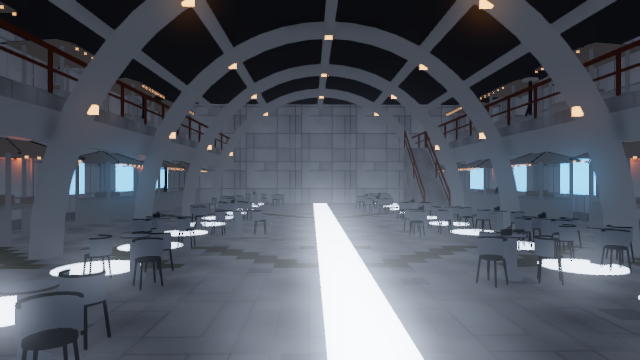
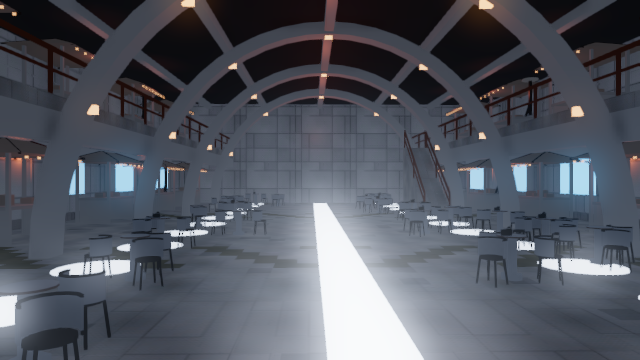
Five bespoke fittings cast, and four modules are calibrated
Every value applied here was already measured and already committed. bay_lamp,
zoc_rib_lamp, zoc_stall_light, bar_pendant_lamp and cc_light_strip are fittings
their modules ALREADY BUILD, described by fixtures already in
docs/layer4-lighting/*.json, and until the previous commit none of them could
cast because none was spelled `light_*`. Unlike the eleven room fittings, not
one range needed scaling: each was measured in the very volume its module
builds, so docking_bay's 30 m is right where a plant hall's would not be.

BESPOKE_EXPOSURE calibrates zocalo, hospitality, command_control and
docking_bay to 1.38-1.46x their reference frames' medians against the 1.40
target the corridor sits at. The corrections are small -- 0.90 to 1.34 -- and
that is the informative part: the anchor was a reasonable default and what
those four modules lacked was not exposure but sources.

docs/engine-zocalo.png, engine-cnc.png, engine-dugout.png,
engine-docking-bay.png. The Dugout now has warm pools under its five pendant
shades, which were hanging dark over the tables in the previous frame.

ON THE WORKFLOW. Six proposal agents plus six adversarial verifiers were
launched for the bespoke modules and produced nothing: this machine's
concurrency cap is 2, so fifteen minutes in, two agents were still on their
first pass and none had written its output. Stopped, and the work done serially
from the same committed JSON the agents were being asked to read. The lesson is
[…]

diff --git a/tools/export_scene.py b/tools/export_scene.py
@@ -635,6 +635,52 @@ FIXTURE_LIGHTING = {
     "light_soffit_blade": {"kind": "omni", "colour": (1.000, 0.703, 0.440),
                            "energy_rel": 0.92, "range_m": 4.0,
                            "shadow": False},
+
+    # --- the bespoke modules ----------------------------------------------
+    # These five are the fittings the bespoke generators ALREADY BUILD and that
+    # the committed measurements already describe. Nothing here is new
+    # geometry, no colour is invented, and -- unlike the room fittings above --
+    # NO RANGE NEEDED SCALING: every one was measured in the very volume its
+    # module builds, so the number transfers as read.
+    #
+    # bay_flood, measured in reference/03-sector-blue/dock.webp: spot, 7391 K,
+    # range 30 m, spacing 11 m, SHADOW, cone half-angle 28-35 deg, emitting
+    # face at BAY_H_M - GIRDER_D_M - LAMP_DROP_M = 13.0 m. The 30 m range is
+    # right here and would be wrong anywhere else: docking_bay.py's BAY_H_M
+    # really is 18 m. 35 deg is the top of the measured range and is taken
+    # rather than opened further.
+    "bay_lamp": {"kind": "spot", "colour": (0.850, 0.830, 1.000),
+                 "energy_rel": 1.00, "range_m": 30.0, "shadow": True,
+                 "angle_deg": 35.0},
+    # zoc_rib_lamp, measured in reference/04-sector-red/zocalo.webp: omni,
+    # 2990 K, energy_rel 0.30, range 6 m, no shadow. Five per rib at the
+    # measured (x, y) intrados positions, ribs at 5.4 m pitch. This is the
+    # concourse's warm register and the only thing in the Zocalo that is not
+    # cool.
+    "zoc_rib_lamp": {"kind": "omni", "colour": (1.000, 0.398, 0.233),
+                     "energy_rel": 0.30, "range_m": 6.0, "shadow": False},
+    # zoc_stall_light, measured in the same frame by blob analysis -- 64
+    # discrete bulbs at a median spacing of 2.6 bulb diameters: omni, 3800 K,
+    # energy_rel 0.19, range 2.5 m. FIXTURE_MERGE_M does the heavy lifting: the
+    # geometry keeps every bulb and the rig gets one lamp per 0.9 m.
+    "zoc_stall_light": {"kind": "omni", "colour": (1.000, 0.492, 0.420),
+                        "energy_rel": 0.19, "range_m": 2.5, "shadow": False},
+    # bar_pendant_lamp, measured in reference/04-sector-red/Doug's Dugout.webp:
+    # spot, 3900 K, range 3.5 m, spacing 2.2 m, SHADOW, one per table. Cone
+    # from the shade itself -- hung below standing eye height (~1.9 m) over a
+    # 1.20 m table at 0.74 m, so atan(0.60/1.16) = 27.4 deg. This is the
+    # module's own fitting, which hospitality.py already places and asserts.
+    "bar_pendant_lamp": {"kind": "spot", "colour": (1.000, 0.554, 0.393),
+                         "energy_rel": 1.00, "range_m": 3.5, "shadow": True,
+                         "angle_deg": 27.4},
+    # cc_wall_course, measured raw in reference/03-sector-blue/comand and
+    # contorl.webp: omni, 22000 K, energy_rel 0.44, range 3.5 m, no shadow.
+    # command_control.py's group is `cc_light_strip` and the measurement is of
+    # that object. The placement note is the reason a 3.5 m range on a 7 m
+    # half-width is correct rather than mean: the courses throw OUTWARD and the
+    # centre of the room stays dark.
+    "cc_light_strip": {"kind": "omni", "colour": (0.243, 0.546, 1.000),
+                       "energy_rel": 0.44, "range_m": 3.5, "shadow": False},
 }
 # EVERYTHING NOT IN THAT TABLE IS EMISSIVE ONLY, and for rooms.py that is:
 # light_service_tube, light_bar_backlight, light_indicator_red and
@@ -751,7 +797,22 @@ ROOM_EXPOSURE = {
 # The frame came back 100% below the measurable floor: not one pixel of the
 # station's bridge above 0.01 linear. An exposure measured on one generator's
 # geometry says nothing about another's.
-BESPOKE_EXPOSURE = {}
+#
+# Four are measured. Same procedure as ROOM_EXPOSURE and the same 1.40 target:
+# render the module's room, measure it and its reference frame with
+# tools/measure_frame.py, scale. At the anchor they came in at 1.53, 1.04, 1.51
+# and 1.55 of their references' medians, so the corrections are small -- which
+# is the interesting part. It says the anchor was a reasonable default and that
+# what those four modules were missing was not exposure but SOURCES: none of
+# their lamps cast anything until FIXTURE_LIGHTING learned their names.
+#
+# The rest stay absent, which means the anchor, which means not yet measured.
+BESPOKE_EXPOSURE = {
+    "zocalo": 0.92,          # vs reference/04-sector-red/more zocalo.png
+    "hospitality": 1.34,     # vs reference/04-sector-red/Doug's Dugout.webp
+    "command_control": 0.93,  # vs 03-sector-blue/comand and contorl.webp
+    "docking_bay": 0.90,     # vs reference/03-sector-blue/dock.webp
+}
 
 
 def room_exposure(room):

diff --git a/STATE.md b/STATE.md
@@ -2780,13 +2780,71 @@ exposure, so it scales both.
 Frames: `docs/engine-medlab.png`, `docs/engine-market.png`. Suites: rooms 579, materials 1364,
 layer-3 gate 34, directory 744, export_scene 80, measure_frame 9.
 
+## Session 3o (cont.) — the bespoke modules can be seen, and four of them are lit
+
+**The interior shot could assemble exactly two things**: the corridor kit and a rooms.py bay.
+All fifty locations built by a bespoke module raised SystemExit — so the Zocalo, the docking bay,
+command and control, the council chamber, seven classes of quarters, the alien sector and the
+plant rooms had materials, had lamps in several cases, and **had never been rendered from the
+inside**. `BESPOKE_GEOMETRY` records the entry point for each of the nine interior-scene modules;
+`to_spans` normalises the four shapes their third return value comes in.
+
+**Three defects between that and a frame worth looking at, all found by looking:**
+
+1. **The archetype exposures leaked onto bespoke rooms.** `rooms.archetype()` reads a place's
+   `functions`, so it classifies a bespoke place happily — C&C came out "office" and took office's
+   0.14, calibrated against a rooms.py bay with rooms.py fittings. The frame came back **100% below
+   the measurable floor**. A bespoke module now falls back to the corridor anchor.
+2. **`open_standpoint` measured distance to VERTICES.** A 30 m end cap is two triangles with four
+   corners, so its middle scored as the most open spot in the room and the Zocalo camera stood
+   outside the concourse with a bulkhead filling the frame. It now rasterises triangle footprints
+   (`rooms.walkable`'s method) and scores by **the clear run ahead** — `zoc_bulkhead` caps both ends
+   and the stall awnings overhang past them, so "nearest free cell" was worth nothing.
+3. **The light rig gated on SPELLING.** `fixture_lights` skipped any group not named `light_*`,
+   which locked out every bespoke module: `zoc_rib_lamp`, `bay_lamp`, `bar_pendant_lamp` are all
+   recorded in the measurements as real sources, two shadow-casting, and none could ever cast.
+   Membership of `FIXTURE_LIGHTING` is the gate now. Renaming nine modules' groups would have
+   broken their material binds, scene rules and layer-3 count to satisfy a convention.
+
+**Five bespoke fittings now cast, and no value in them is new.** `bay_lamp`, `zoc_rib_lamp`,
+`zoc_stall_light`, `bar_pendant_lamp`, `cc_light_strip` — every one is a fitting its module already
+builds and the committed JSON already measures, and unlike the room fittings **not one range needed
+scaling**: each was measured in the very volume its module builds. `BESPOKE_EXPOSURE` calibrates
+four modules to 1.38–1.46× their reference frames against a 1.40 target. The corrections were small
+(0.90–1.34), which is the informative part: what those modules lacked was not exposure but sources.
+
+Frames: `docs/engine-zocalo.png` — the station's social centre, elliptical rib arches, gallery and
+stairs both sides, stalls under awnings, warm rib lamps against the cool deck strip.
+`docs/engine-cnc.png`, `docs/engine-dugout.png`, `docs/engine-docking-bay.png`.
+
+**A workflow that cost time and produced nothing.** Six proposal agents plus six adversarial
+verifiers were launched for the bespoke modules. The machine's concurrency cap is 2, so after
+fifteen minutes two agents were still on their first pass and none had written its output. It was
+stopped and the work done serially from the same committed JSON the agents were being asked to
+read. **The lesson is about this machine, not about the pattern**: at 2 concurrent, a 12-agent
+fan-out is a 6-deep queue, and the useful width here is 2–4.
+
 ## NEXT SESSION — layer 4
 
-1. **The bespoke sixteen.** Layer 4 stands at 68/118; the other 50 are the module-built places, and
+1. **The bespoke sixteen, continued.** Layer 4 stands at 68/118; the other 50 are the module-built places, and
    several already build lamps (`zoc_rib_lamp`, `bay_lamp`, `cc_light_strip`). What they do not have
    is a calibrated exposure and a frame measured against its reference, which is what layer 4 *is*.
    The measured fixtures for them are already committed in `docs/layer4-lighting/public_social.json`
-   and `command_working.json` — 42 of them, unapplied.
+   and `command_working.json`. Five are now applied; the rest need GEOMETRY before they can be
+   lit, which is layer-2 work reached from layer 4:
+   * **`plant` (5 places) has no light fitting of any kind** and renders 85% black — two tanks in
+     the dark. It is the `rooms.py` industrial problem in a module that was not covered by
+     `rooms.LIGHTS`.
+   * **`quarters` (7 places)** has only `qtr_babcom`, a comms panel. No lamp.
+   * **`council_chamber`**: `cc_house_wash` is measured as the chamber's whole lighting scheme and
+     its "fitting is never in frame" — there is no geometry to hang a light on. Needs either an
+     invisible tagged proxy or a different mechanism; decide and argue it.
+   * **`docking_bay`**: `bay_mouth` — "NOT PRESENT IN docking_bay.py, which builds the mouth as an
+     opening and lights nothing."
+   * **`command_control`**: two more wall courses, `cc_console_skirt`, `cc_pit_indicator`.
+   * **`zocalo`**: the measurement says 60–100 bulbs a stall against the 6–9 zocalo.py places, and
+     that the overhead downlight's cone must be ≥50°— but zocalo.py has no ceiling fitting geometry
+     at all; `zoc_downlight` is the lit patch ON THE DECK.
 2. **Our lamps clip where the show's do not.** Measured across the eleven calibration renders and
    their reference frames: ours clip 0.00–3.13% of the frame, the references 0.00–0.54%. The
    Zocalo reference clips 0.00% and our market frame 3.13%; the war room 0.00% and our medlab
